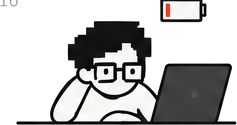
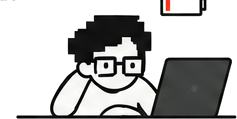
Add ai-video.html (input 2 images + prompt -> output), nav link, sitemap; remove MAD Marketing refs; fix .steps span layout; recut character PNGs; web-sized reference images
Claude-Session: https://claude.ai/code/session_01TmLZ1VkrJ1FzdFCXwHFL7b

diff --git a/ai-video.html b/ai-video.html
@@ -1,0 +1,199 @@
+<!DOCTYPE html>
+<html lang="th">
+<head>
+<meta charset="UTF-8">
+<meta name="viewport" content="width=device-width, initial-scale=1">
+<title>สร้างวิดีโอด้วย AI จากรูป 2 รูป — Nerd MarTech</title>
+<meta name="description" content="ดูจริงว่าใส่อะไรเข้าไปบ้าง — รูปคน 1 รูป + รูปบ้าน 1 รูป + prompt 1 ย่อหน้า — แล้วออกมาเป็นคลิปพูดไทย 8 วินาทีได้อย่างไร พร้อมเครดิตและเวลาที่ใช้จริง">
+<link rel="canonical" href="https://nerdmartech.com/ai-video.html">
+<meta property="og:type" content="article">
+<meta property="og:site_name" content="Nerd MarTech">
+<meta property="og:title" content="สร้างวิดีโอด้วย AI จากรูป 2 รูป — Nerd MarTech">
+<meta property="og:description" content="รูปคน + รูปบ้าน + prompt → คลิปพูดไทย 8 วิ ใน 3 นาที 24 credits — ดูทุกขั้นตอนที่ใช้จริง">
+<meta property="og:url" content="https://nerdmartech.com/ai-video.html">
+<meta property="og:locale" content="th_TH">
+<meta name="twitter:card" content="summary_large_image">
+<script type="application/ld+json">
+{"@context":"https://schema.org","@type":"HowTo","name":"สร้างวิดีโอรีวิวบ้านพูดไทยด้วย AI จากรูป 2 รูป","description":"ใช้รูปพรีเซนเตอร์ 1 รูป และรูปโครงการ 1 รูป ร่วมกับ prompt 1 ย่อหน้า สร้างคลิปแนวตั้ง 8 วินาที พร้อมเสียงพูดไทย","totalTime":"PT3M","estimatedCost":{"@type":"MonetaryAmount","currency":"credits","value":"24"},"tool":[{"@type":"HowToTool","name":"Higgsfield (Gemini Omni Flash 1.1)"},{"@type":"HowToTool","name":"Claude Cowork"}],"step":[{"@type":"HowToStep","name":"เตรียมรูป 2 รูป","text":"รูปคนหน้าชัด 1 รูป และรูปบ้าน/โครงการ 1 รูป"},{"@type":"HowToStep","name":"เขียน prompt","text":"ระบุรูปแบบคลิป คนกับฉากจากรูปอ้างอิง การเคลื่อนไหว ภาษาไทย บทพูด และเสียง"},{"@type":"HowToStep","name":"สั่งเจน","text":"เลือกโหมด reference-to-video ใส่รูป 2 รูปเป็น image references ตั้ง 9:16 8 วินาที"},{"@type":"HowToStep","name":"ตรวจผล","text":"เช็คเสียงไทย ปากตรง หน้าเหมือน — ไม่ผ่านให้เจนใหม่"}]}
+</script>
+<link href="https://fonts.googleapis.com/css2?family=IBM+Plex+Sans+Thai:wght@400;500;600;700&family=Space+Grotesk:wght@500;600;700&family=Zen+Kaku+Gothic+New:wght@500;700&display=swap" rel="stylesheet">
+<link rel="stylesheet" href="assets/style.css">
+<link rel="icon" href="favicon.ico" sizes="any">
+<link rel="icon" type="image/png" sizes="32x32" href="assets/brand/favicon-32.png">
+<link rel="apple-touch-icon" href="assets/brand/apple-touch-icon.png">
+<meta name="theme-color" content="#111111">
+<style>
+/* ---- pipeline ---- */
+.pipe{display:grid;grid-template-columns:1fr auto 1fr auto 1fr;gap:12px;align-items:start;margin:24px 0 8px}
+.pipe .node{background:var(--card);border:1px solid var(--line);padding:16px;display:flex;flex-direction:column;gap:10px;position:relative}
+.pipe .node .lab{margin-bottom:2px}
+.pipe .arrow{display:flex;align-items:center;justify-content:center;font-family:var(--font-display);font-weight:700;color:var(--accent-hi);font-size:26px;padding:0 2px}
+.pipe .node.out{border-color:var(--accent);box-shadow:inset 0 0 0 1px var(--accent)}
+.inputs{display:grid;grid-template-columns:1fr 1fr;gap:10px}
+.inputs figure{margin:0;display:flex;flex-direction:column;gap:6px}
+.inputs img{width:100%;aspect-ratio:1/1;object-fit:cover;display:block;border:1px solid var(--line)}
+.inputs figcaption{font-size:12px;color:var(--muted);display:flex;justify-content:space-between;gap:6px}
+.inputs figcaption b{color:var(--text);font-weight:600}
+.pipe .node video{width:100%;aspect-ratio:9/16;max-height:360px;object-fit:cover;background:#000;display:block;border:1px solid var(--line)}
+.miniprompt{font-size:13px;line-height:1.55;color:var(--muted);background:var(--bg2);border:1px solid var(--line);padding:10px 12px;max-height:230px;overflow:hidden;position:relative}
+.miniprompt::after{content:"";position:absolute;left:0;right:0;bottom:0;height:60px;background:linear-gradient(transparent,var(--bg2))}
+.meta{display:flex;flex-wrap:wrap;gap:6px 14px;font-size:13px;color:var(--muted)}
+.meta b{font-family:var(--font-display);color:var(--text);font-weight:600;letter-spacing:.02em}
+@media(max-width:820px){.pipe{grid-template-columns:1fr}.pipe .arrow{transform:rotate(90deg);padding:4px 0}}
+
+/* ---- annotated prompt ---- */
+.anno{background:var(--bg2);border:1px solid var(--line);padding:18px 20px;font-size:15.5px;line-height:1.9;position:relative}
+.anno .copy{position:absolute;top:10px;right:10px;background:var(--card2);border:1px solid var(--line);color:var(--muted);font-size:12px;padding:4px 10px;border-radius:8px;cursor:pointer;font-family:inherit}
+.anno .copy.done{color:var(--ok);border-color:var(--ok)}
+.anno mark{background:transparent;color:var(--text);border-bottom:3px solid;padding-bottom:1px;position:relative}
+.anno mark::before{content:attr(data-n);font-family:var(--font-display);font-size:10px;font-weight:700;letter-spacing:.06em;position:relative;top:-9px;margin-right:3px;padding:1px 4px;color:#111}
+.c1{border-color:var(--accent-hi)}.c1::before{background:var(--accent-hi)}
+.c2{border-color:var(--accent2)}.c2::before{background:var(--accent2)}
+.c3{border-color:var(--ok)}.c3::before{background:var(--ok)}
+.c4{border-color:var(--purple)}.c4::before{background:var(--purple);color:#fff}
+.c5{border-color:#f9f8f6}.c5::before{background:#f9f8f6}
+.c6{border-color:var(--muted)}.c6::before{background:var(--muted)}
+.legend{display:grid;grid-template-columns:repeat(auto-fit,minmax(170px,1fr));gap:10px;margin-top:14px}
+.legend div{border-left:3px solid;padding:6px 10px;font-size:14px}
+.legend div b{display:block;font-family:var(--font-display);font-size:11px;letter-spacing:.1em;text-transform:uppercase;margin-bottom:2px}
+.legend div span{color:var(--muted)}
+
+/* ---- settings table ---- */
+.settings{display:grid;grid-template-columns:repeat(auto-fit,minmax(150px,1fr));gap:10px}
+.settings div{background:var(--card);border:1px solid var(--line);padding:12px 14px}
+.settings .lab{display:block;margin-bottom:4px}
+.settings b{font-family:var(--font-display);font-size:20px;font-weight:700}
+.settings small{display:block;color:var(--muted);font-size:13px;margin-top:2px}
+
+/* ---- character strip ---- */
+.nerd-note{display:grid;grid-template-columns:120px 1fr;gap:18px;align-items:center;background:var(--card);border:1px solid var(--line);padding:18px 20px}
+.nerd-note img{width:120px;height:auto;image-rendering:auto}
+.nerd-note p{margin:0;font-size:15px}
+.nerd-note p b{color:var(--accent-hi)}
+@media(max-width:600px){.nerd-note{grid-template-columns:1fr}.nerd-note img{width:90px}}
+</style>
+</head>
+<body>
+
+<header class="site-head">
+  <a class="logo" href="index.html" aria-label="Nerd MarTech">
+    <img src="assets/brand/logo-on-dark.svg" alt="" class="logo-sym">
+    <span class="logo-wm">Nerd<br>Mar<span>Tech</span></span>
+  </a>
+  <nav class="site-nav"><div class="wrap"><div class="links"><a href="index.html">หน้าแรก</a><a href="ai-video.html" class="active">สร้างวิดีโอด้วย AI</a><a href="use-cases.html">Use Cases</a><a href="prompts.html">Prompts</a><a href="compare.html">Model Compare</a></div></div></nav>
+</header>
+
+<div class="wrap">
+
+<div class="hero" style="padding-bottom:8px">
+  <div class="lab red">NERD TEST / 001 · HOW IT WAS MADE</div>
+  <h1>รูป 2 รูป + prompt 1 ย่อหน้า<br><em>= คลิปพูดไทย 8 วินาที</em></h1>
+  <p>หน้านี้ไม่สอนทฤษฎี — เอาของที่ใส่เข้าไปจริงมาวางให้ดูทั้งหมด รูปที่ใช้ prompt ที่พิมพ์ ค่าที่ตั้ง แล้วผลที่ได้ออกมาเป็นอย่างนี้ ใครอยากทำตามก็ก๊อปไปได้เลย</p>
+</div>
+
+<!-- ===== PIPELINE ===== -->
+<section>
+  <div class="pipe">
+    <div class="node">
+      <span class="lab">01 · INPUT — รูป 2 รูป</span>
+      <div class="inputs">
+        <figure><img src="assets/image-reference/presenter.jpg" alt="รูปพรีเซนเตอร์ที่ใช้เป็นรูปอ้างอิง"><figcaption><b>คน</b><span>1 รูป · หน้าชัด</span></figcaption></figure>
+        <figure><img src="assets/image-reference/house.jpg" alt="รูปบ้านที่ใช้เป็นรูปอ้างอิง"><figcaption><b>บ้าน</b><span>1 รูป · หน้าโครงการ</span></figcaption></figure>
+      </div>
+      <div class="meta"><span>role: <b>image_references</b></span><span>ไม่ต้องตัดพื้น ไม่ต้องรีทัช</span></div>
+    </div>
+    <div class="arrow">+</div>
+    <div class="node">
+      <span class="lab">02 · PROMPT — 1 ย่อหน้า</span>
+      <div class="miniprompt">UGC-style vertical selfie video. The young Thai woman from the reference photo stands in front of the luxury two-story grey house from the reference photo at dusk, holding the phone at arm's length, natural handheld movement, warm evening light. She smiles and speaks to camera in clear natural Thai with accurate lip sync, friendly excited tone. She says in Thai: "สวัสดีค่ะ วันนี้พามาดูบ้านหลังนี้ค่ะ …" Native Thai speech audio only, soft ambient evening sound, no music, no subtitles.</div>
+      <div class="meta"><span>ภาษาอังกฤษ ยกเว้นบทพูด</span><span><b>6</b> ส่วน · ดูด้านล่าง ↓</span></div>
+    </div>
+    <div class="arrow">→</div>
+    <div class="node out">
+      <span class="lab red">03 · OUTPUT — คลิป</span>
+      <video controls preload="metadata" src="https://d8j0ntlcm91z4.cloudfront.net/user_3FvAUpXpCnZUma0p4ZCgNFe1CGD/hf_20260922_221717_f3028521-d89f-4e31-a02f-b57101865983.mp4"></video>
+      <div class="meta"><span><b>9:16</b> · <b>8s</b> · 720p</span><span><b>24</b> credits</span><span>~<b>3</b> นาที</span></div>
+      <span class="badge pass"><svg><use href="assets/pixel-icons.svg#pi-check"/></svg>PASS</span>
+    </div>
+  </div>
+  <p class="ds-note" style="color:var(--muted);font-size:13px;margin:6px 0 0">โมเดล: Gemini Omni Flash 1.1 (โหมด reference-to-video) ผ่าน Higgsfield · สั่งงานผ่าน Claude Cowork · ไม่มีการตัดต่อเพิ่ม ไม่มีการเลือกเทคจากหลายรอบ — นี่คือรอบแรก</p>
+</section>
+
+<!-- ===== PROMPT ANATOMY ===== -->
+<section>
+  <div class="eyebrow"><span class="lab">02</span><span class="lab">แกะ prompt ทีละส่วน</span></div>
+  <p class="h2sub">prompt ทั้งหมดมี 6 ส่วน เรียงตามนี้ทุกครั้ง — ส่วนที่คนมักลืมคือ ส่วน 4 กับ 6 แล้วก็สงสัยว่าทำไมได้สำเนียงเพี้ยนกับมีเพลงโผล่มา</p>
+  <div class="anno" id="anno">
+    <button class="copy" onclick="cpAnno(this)">Copy prompt</button>
+    <mark class="c1" data-n="1">UGC-style vertical selfie video.</mark>
+    <mark class="c2" data-n="2">The young Thai woman from the reference photo stands in front of the luxury two-story grey house from the reference photo at dusk,</mark>
+    <mark class="c3" data-n="3">holding the phone at arm's length, natural handheld movement, warm evening light. She smiles and</mark>
+    <mark class="c4" data-n="4">speaks to camera in clear natural Thai with accurate lip sync, friendly excited tone.</mark>
+    <mark class="c5" data-n="5">She says in Thai: "สวัสดีค่ะ วันนี้พามาดูบ้านหลังนี้ค่ะ สองชั้น สไตล์คลาสสิก หน้าบ้านกว้างมาก จอดรถได้สองคันสบายๆ ใครสนใจทักมาได้เลยนะคะ"</mark>
+    <mark class="c6" data-n="6">Native Thai speech audio only, soft ambient evening sound, no music, no subtitles.</mark>
+  </div>
+  <div class="legend">
+    <div class="c1"><b>1 · รูปแบบ</b><span>บอกว่าเป็นคลิปแบบไหน — UGC selfie แนวตั้ง ถ้าไม่บอก จะได้ภาพโฆษณาเนี้ยบๆ ที่ดูไม่จริง</span></div>
+    <div class="c2"><b>2 · คน + ฉาก</b><span>ต้องพูดว่า "from the reference photo" ทั้งคนและบ้าน ไม่งั้นโมเดลเจนคนใหม่/บ้านใหม่ให้เอง</span></div>
+    <div class="c3"><b>3 · การเคลื่อนไหว</b><span>มือถือ กล้องสั่นนิดๆ แสงเย็น — ตัวที่ทำให้ดูเป็นคนถ่ายเอง</span></div>
+    <div class="c4"><b>4 · ภาษา + lip sync</b><span>"clear natural Thai" ต้องมี — ตัวที่ลืมส่วนนี้ได้สำเนียงเขมรมาแล้ว</span></div>
+    <div class="c5"><b>5 · บทพูด</b><span>ใส่ในเครื่องหมายคำพูด นำด้วย She says in Thai: · 8 วิ ≈ 25–30 คำ เกินนี้พูดไม่ทัน</span></div>
+    <div class="c6"><b>6 · เสียง</b><span>no music, no subtitles — ไม่บอก บางโมเดลใส่เพลงกับซับให้เองแล้วแก้ไม่ได้</span></div>
+  </div>
+</section>
+
+<!-- ===== SETTINGS ===== -->
+<section>
+  <div class="eyebrow"><span class="lab">03</span><span class="lab">ค่าที่ตั้งตอนสั่งเจน</span></div>
+  <p class="h2sub">ไม่มีค่าลับ ตั้งแค่นี้</p>
+  <div class="settings">
+    <div><span class="lab">Model</span><b style="font-size:16px">Gemini Omni Flash 1.1</b><small>ผ่าน Higgsfield</small></div>
+    <div><span class="lab">Mode</span><b style="font-size:16px">reference-to-video</b><small>รับหลายรูปในรอบเดียว</small></div>
+    <div><span class="lab">Aspect</span><b>9:16</b><small>Reels / TikTok / Shorts</small></div>
+    <div><span class="lab">Duration</span><b>8s</b><small>พอสำหรับบทพูด 1 ประโยคยาว</small></div>
+    <div><span class="lab">Resolution</span><b>720p</b><small>พอสำหรับมือถือ · 1080p แพงกว่าไม่คุ้ม</small></div>
+    <div><span class="lab">Cost</span><b>24</b><small>credits ต่อรอบ</small></div>
+  </div>
+</section>
+
+<!-- ===== STEPS ===== -->
+<section>
+  <div class="eyebrow"><span class="lab">04</span><span class="lab">ลำดับที่ทำจริง</span></div>
+  <div class="grid g2">
+    <ol class="steps">
+      <li><b>อัปโหลดรูป 2 รูป</b><span>ได้ media id กลับมา 2 ตัว — ไม่ต้องบอกว่ารูปไหนคน รูปไหนบ้าน โมเดลดูออกเอง</span></li>
+      <li><b>เขียนบทพูดไทยก่อน แล้วค่อยเขียน prompt ล้อมรอบ</b><span>บทพูดคือสิ่งเดียวที่ลูกค้าจะฟัง ที่เหลือคือคำสั่งกล้อง</span></li>
+      <li><b>สั่งเจน 1 รอบ รอ ~3 นาที</b><span>ไม่ต้องสั่ง 4 รอบแล้วเลือก — ถ้า prompt ครบ 6 ส่วน รอบแรกก็มักผ่าน</span></li>
+      <li><b>เช็ค 3 อย่างก่อนใช้</b><span>ไทยชัดไหม · ปากตรงไหม · หน้าเหมือนรูปไหม — ไม่ผ่านข้อใด เจนใหม่ (24 credits) ถูกกว่านั่งแก้</span></li>
+    </ol>
+    <div style="display:flex;flex-direction:column;gap:12px">
+      <div class="nerd-note">
+        <img src="assets/character/17-idea.png" alt="">
+        <p><b>ประเด็นที่คนมองข้าม</b> — ความยากไม่ได้อยู่ที่ prompt แต่อยู่ที่เลือกโมเดล prompt เดียวกันนี้ใส่โมเดลอื่นได้ผลตั้งแต่ "ดีพอ" จนถึง "พูดเขมร" ดูผลทั้ง 11 ตัวได้ที่ <a href="compare.html">Model Compare</a></p>
+      </div>
+      <div class="nerd-note">
+        <img src="assets/character/08-think.png" alt="">
+        <p><b>อย่าลืมเรื่องสิทธิ์รูป</b> — รูปคนที่ใช้ต้องได้รับอนุญาตแล้ว รูปในหน้านี้ใช้เพื่อการทดสอบ ถ้าจะทำจริงให้ใช้รูปพรีเซนเตอร์หรือพนักงานของโครงการเอง</p>
+      </div>
+      <div class="lesson"><b>ใช้ต่อได้เลย</b> — prompt เต็มพร้อมช่อง [ ] ให้แก้ อยู่ที่ <a href="prompts.html#p-ugc">Prompt #1</a> · ขั้นตอนแบบเต็มอยู่ที่ <a href="use-cases.html#ugc-house">Use Case 01</a></div>
+    </div>
+  </div>
+</section>
+
+<footer>
+  Nerd MarTech · จัดทำโดย AOO Commerce · ผลทดสอบเป็นข้อมูล ณ วันที่ทดสอบ โมเดล AI เปลี่ยนเร็ว ควรทดสอบซ้ำก่อนใช้งานจริง
+</footer>
+
+</div>
+
+<script>
+function cpAnno(btn){
+  var t=Array.from(document.querySelectorAll('#anno mark')).map(function(m){return m.textContent.trim()}).join(' ');
+  navigator.clipboard.writeText(t).then(function(){
+    btn.textContent='Copied ✓';btn.classList.add('done');
+    setTimeout(function(){btn.textContent='Copy prompt';btn.classList.remove('done')},1800);
+  });
+}
+</script>
+</body>
+</html>

diff --git a/index.html b/index.html
@@ -33,7 +33,7 @@
     <img src="assets/brand/logo-on-dark.svg" alt="" class="logo-sym">
     <span class="logo-wm">Nerd<br>Mar<span>Tech</span></span>
   </a>
-  <nav class="site-nav"><div class="wrap"><div class="links"><a href="index.html" class="active">หน้าแรก</a><a href="use-cases.html">Use Cases</a><a href="prompts.html">Prompts</a><a href="compare.html">Model Compare</a></div></div></nav>
+  <nav class="site-nav"><div class="wrap"><div class="links"><a href="index.html" class="active">หน้าแรก</a><a href="ai-video.html">สร้างวิดีโอด้วย AI</a><a href="use-cases.html">Use Cases</a><a href="prompts.html">Prompts</a><a href="compare.html">Model Compare</a></div></div></nav>
 </header>
 
 <div class="wrap">
@@ -91,7 +91,7 @@
 </section>
 
 <footer>
-  Nerd MarTech · จัดทำโดย AOO Commerce · แบรนด์ในเครือ <a href="https://www.facebook.com/" target="_blank">MAD Marketing — การตลาดของจริง เล่าจากสนามจริง ไม่อิงทฤษฎี</a><br>
+  Nerd MarTech · จัดทำโดย AOO Commerce<br>
   ผลทดสอบเป็นข้อมูล ณ วันที่ทดสอบ โมเดล AI เปลี่ยนเร็ว ควรทดสอบซ้ำก่อนใช้งานจริง
 </footer>
 

diff --git a/design-system.html b/design-system.html
@@ -45,7 +45,7 @@
     <img src="assets/brand/logo-on-dark.svg" alt="" class="logo-sym">
     <span class="logo-wm">Nerd<br>Mar<span>Tech</span></span>
   </a>
-  <nav class="site-nav"><div class="wrap"><div class="links"><a href="index.html">หน้าแรก</a><a href="use-cases.html">Use Cases</a><a href="prompts.html">Prompts</a><a href="compare.html">Model Compare</a><a href="design-system.html" class="active">Design System</a></div></div></nav>
+  <nav class="site-nav"><div class="wrap"><div class="links"><a href="index.html">หน้าแรก</a><a href="ai-video.html">สร้างวิดีโอด้วย AI</a><a href="use-cases.html">Use Cases</a><a href="prompts.html">Prompts</a><a href="compare.html">Model Compare</a><a href="design-system.html" class="active">Design System</a></div></div></nav>
 </header>
 
 <div class="wrap">

diff --git a/compare.html b/compare.html
@@ -34,7 +34,7 @@
     <img src="assets/brand/logo-on-dark.svg" alt="" class="logo-sym">
     <span class="logo-wm">Nerd<br>Mar<span>Tech</span></span>
   </a>
-  <nav class="site-nav"><div class="wrap"><div class="links"><a href="index.html">หน้าแรก</a><a href="use-cases.html">Use Cases</a><a href="prompts.html">Prompts</a><a href="compare.html" class="active">Model Compare</a></div></div></nav>
+  <nav class="site-nav"><div class="wrap"><div class="links"><a href="index.html">หน้าแรก</a><a href="ai-video.html">สร้างวิดีโอด้วย AI</a><a href="use-cases.html">Use Cases</a><a href="prompts.html">Prompts</a><a href="compare.html" class="active">Model Compare</a></div></div></nav>
 </header>
 
 <div class="wrap">

diff --git a/prompts.html b/prompts.html
@@ -27,7 +27,7 @@
     <img src="assets/brand/logo-on-dark.svg" alt="" class="logo-sym">
     <span class="logo-wm">Nerd<br>Mar<span>Tech</span></span>
   </a>
-  <nav class="site-nav"><div class="wrap"><div class="links"><a href="index.html">หน้าแรก</a><a href="use-cases.html">Use Cases</a><a href="prompts.html" class="active">Prompts</a><a href="compare.html">Model Compare</a></div></div></nav>
+  <nav class="site-nav"><div class="wrap"><div class="links"><a href="index.html">หน้าแรก</a><a href="ai-video.html">สร้างวิดีโอด้วย AI</a><a href="use-cases.html">Use Cases</a><a href="prompts.html" class="active">Prompts</a><a href="compare.html">Model Compare</a></div></div></nav>
 </header>
 
 <div class="wrap">

diff --git a/use-cases.html b/use-cases.html
@@ -27,7 +27,7 @@
     <img src="assets/brand/logo-on-dark.svg" alt="" class="logo-sym">
     <span class="logo-wm">Nerd<br>Mar<span>Tech</span></span>
   </a>
-  <nav class="site-nav"><div class="wrap"><div class="links"><a href="index.html">หน้าแรก</a><a href="use-cases.html" class="active">Use Cases</a><a href="prompts.html">Prompts</a><a href="compare.html">Model Compare</a></div></div></nav>
+  <nav class="site-nav"><div class="wrap"><div class="links"><a href="index.html">หน้าแรก</a><a href="ai-video.html">สร้างวิดีโอด้วย AI</a><a href="use-cases.html" class="active">Use Cases</a><a href="prompts.html">Prompts</a><a href="compare.html">Model Compare</a></div></div></nav>
 </header>
 
 <div class="wrap">

diff --git a/assets/style.css b/assets/style.css
@@ -92,7 +92,7 @@ h3{font-size:18px;margin:22px 0 8px}
 .steps li{counter-increment:s;display:grid;grid-template-columns:34px 1fr;gap:12px;align-items:start;background:var(--card);border:1px solid var(--line);border-radius:12px;padding:12px 14px}
 .steps li::before{content:counter(s);width:30px;height:30px;border-radius:50%;background:var(--accent);color:#fff;font-weight:700;display:flex;align-items:center;justify-content:center;font-size:14px}
 .steps li b{display:block;margin-bottom:2px}
-.steps li span{color:var(--muted);font-size:15px}
+.steps li span{grid-column:2;color:var(--muted);font-size:15px}
 
 /* prompt blocks */
 .prompt{background:var(--bg2);border:1px solid var(--line);border-radius:12px;padding:14px 16px;position:relative}

diff --git a/README.md b/README.md
@@ -1,7 +1,7 @@
 # NerdMarTech — nerdmartech.com
 
 เว็บรวม use case · prompt · ผลเปรียบเทียบโมเดล AI สำหรับงานการตลาด — static HTML ไม่มี build step
-แบรนด์ในเครือ MAD Marketing · จัดทำโดย AOO Commerce
+จัดทำโดย AOO Commerce
 
 ## โครงสร้าง
 
